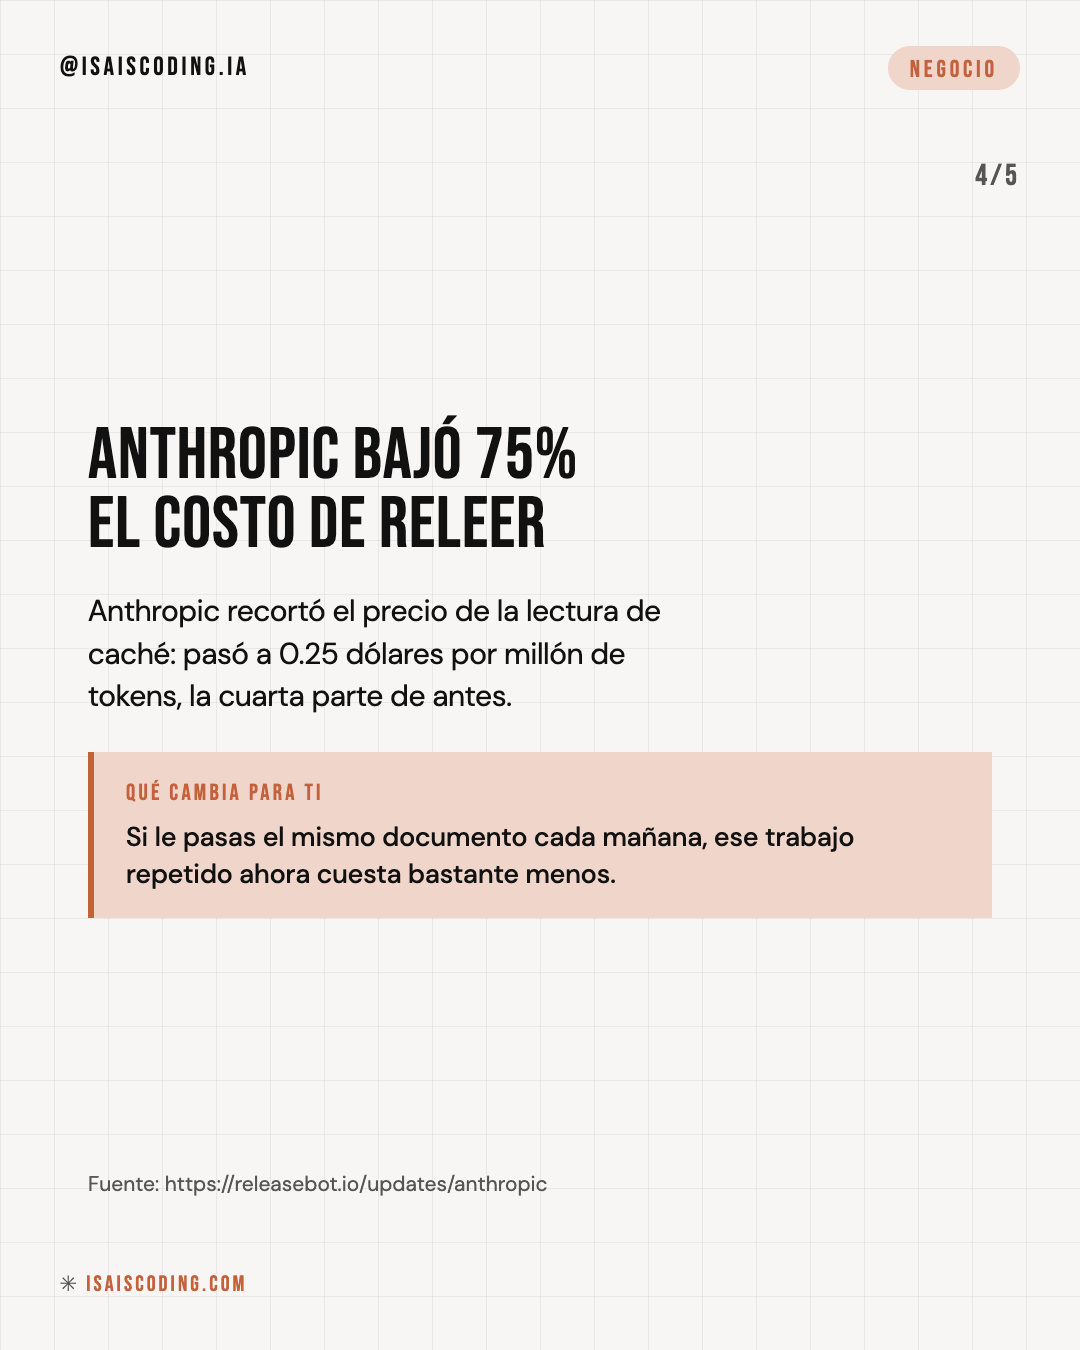
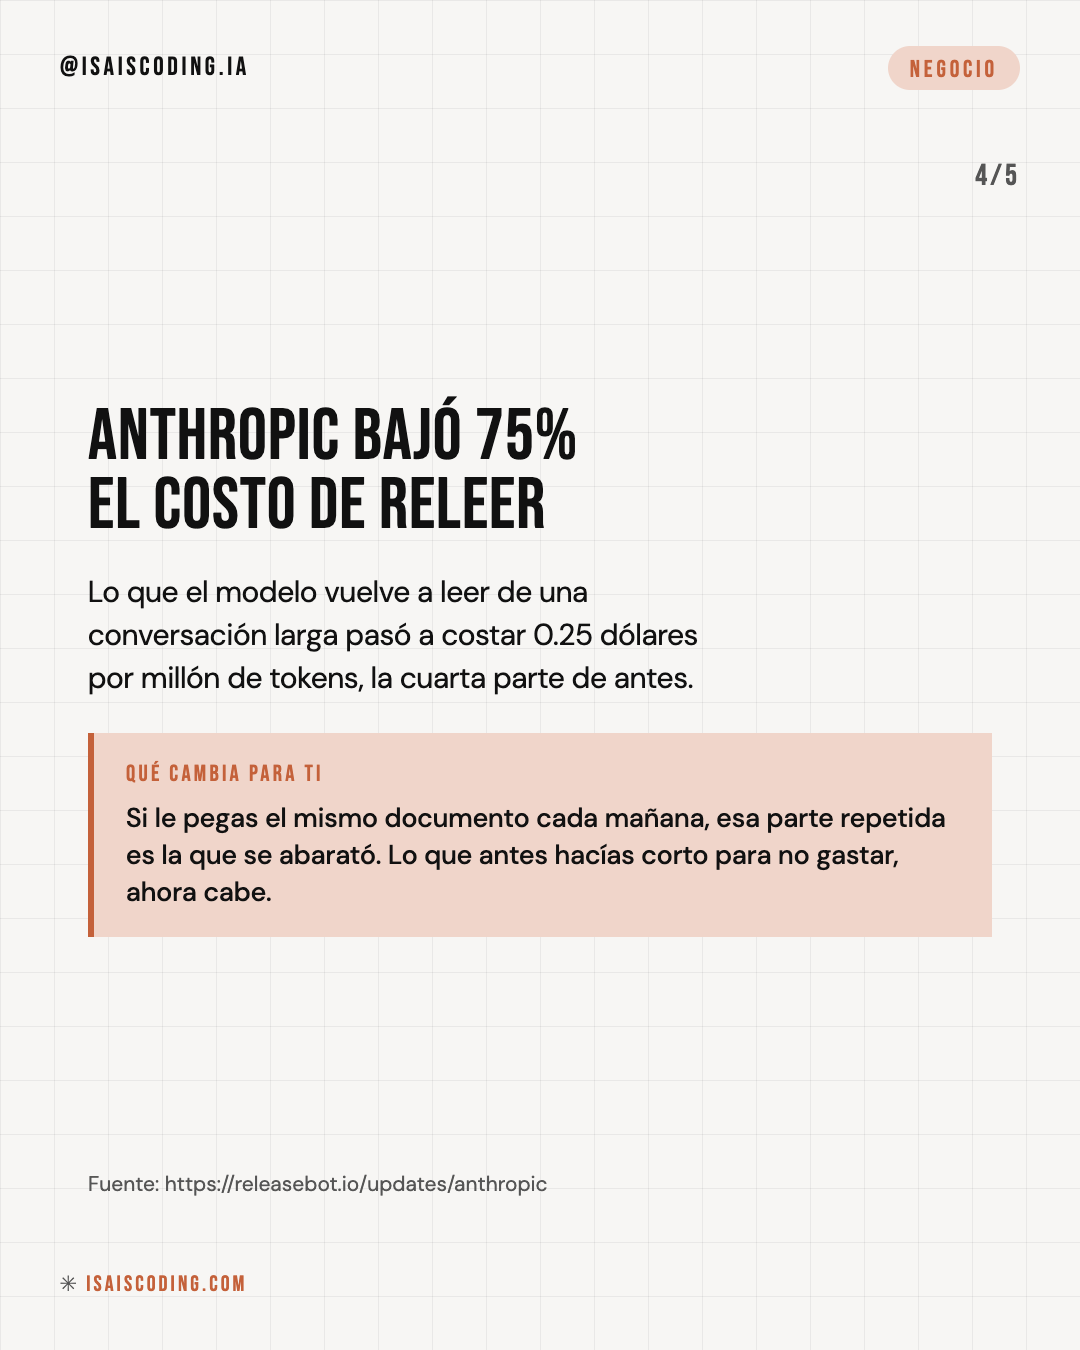
El recap decía qué salió, no qué hace: regla nueva y las 4 variantes reescritas
Isabela: "eso no explica por qué afecta o cambia para el negocio, son super
superficiales, solo que salieron nuevos modelos". Tenía razón, y el fallo era de
fondo, no de este mazo.

Las fuentes que usaba —registros de lanzamientos— dan fechas y nombres, no
capacidades. Con eso lo mejor que sale es "salió el modelo X, espera a ver", que
es lo que escribí. Cinco slides para decir que no pasó nada.

Ahora cada noticia dice QUÉ HACE, sacado del anuncio de la empresa o de reseñas:
- Astra trabaja dentro del software en vez de recomendar: navega, analiza datos,
  arma hojas de cálculo (CNBC).
- Gemini Flash cuesta lo mismo que antes y rinde más, PERO el precio se duplica
  el 1 de enero de 2027 (verificado en la fuente: "both numbers double").
- Muse Spark 1.3 pregunta antes de una acción irreversible; 20% menos llamadas a
  herramientas (blog oficial de Meta, cita textual).
- El recorte del 75% en cache-read de Anthropic.
- Qwen sacó uno abierto que se descarga y corre en tu equipo.

Y la causa, en los tres sitios donde vive la regla:
- check-recap.mjs caza el resumen que solo anuncia el lanzamiento. Al aplicarlo
  cazó uno real que se había colado en r04-completo.
- SCHEMA-RECAP.md documenta la regla con el contraejemplo de la referencia, que
  no dice "Dyson sacó un cepillo con IA" sino cómo funciona.
- El prompt del domingo lleva la regla y el aviso de no llenar el recap con una
  sola empresa.

Verificado: las 4 variantes pasan check-recap, comprobar-fuentes y check-corto.
[…]

Changed region(s): [[0.0611, 0.4356, 0.9167, 0.7156], [0.0611, 0.28, 0.55, 0.4044]]

diff --git a/recap/SCHEMA-RECAP.md b/recap/SCHEMA-RECAP.md
@@ -54,6 +54,31 @@ ese sería exactamente eso.
 | 2..n-1 | `noticia` | una por slide |
 | n | `cierreRecap` | pregunta abierta + seguir + compartir |
 
+## La regla que decide si el recap sirve
+
+**Saber que algo salió no es información. Lo útil es qué hace que antes no se podía.**
+
+Comparar:
+
+> ✗ *"GPT-6 Astra salió el 3 de septiembre. Es el modelo nuevo de OpenAI."*
+> → no te deja saber nada. Es una fecha y un nombre.
+>
+> ✓ *"Trabaja dentro del software en vez de decirte qué hacer: navega, analiza datos y
+> arma hojas de cálculo por su cuenta."*
+> → ahora sabes qué es y puedes decidir si te sirve.
+
+La referencia que dio origen a este carril lo hace bien: no dice *"Dyson sacó un cepillo de
+dientes con IA"*, dice *"usa una cámara de 100.000 píxeles entrenada con 470.000 imágenes
+dentales para localizar los huecos entre los dientes y dispara un chorro de enjuague en 100
+milisegundos"*. Eso te deja **viendo la cosa funcionar**.
+
+`check-recap.mjs` caza el resumen que solo anuncia. Si un lanzamiento no tiene nada que
+contar más allá de que ocurrió, **no es noticia**: déjalo fuera o mételo en la de "cuántas
+empresas lanzaron esta semana", que ahí el patrón sí es la noticia.
+
+Y el mismo criterio manda en el campo de la variante: `paraTi` no puede ser *"espera a ver"*
+ni *"nada por ahora"*. Si de verdad no cambia nada para quien lee, esa noticia sobra.
+
 ## El slide `noticia`
 
 | Campo | Obligatorio | Qué es |
